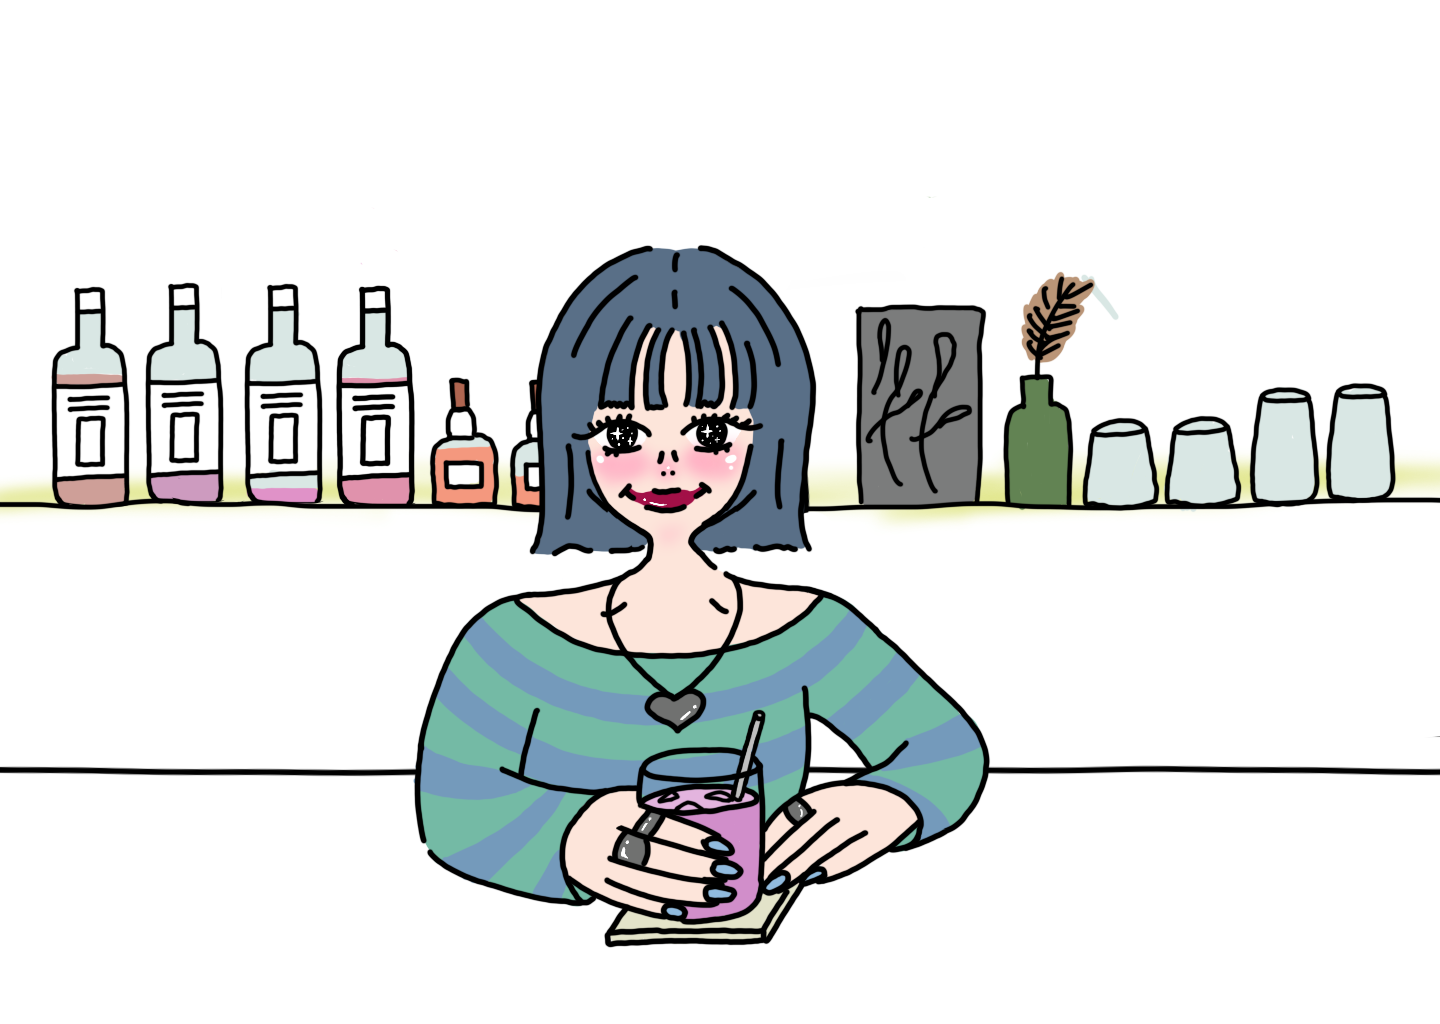
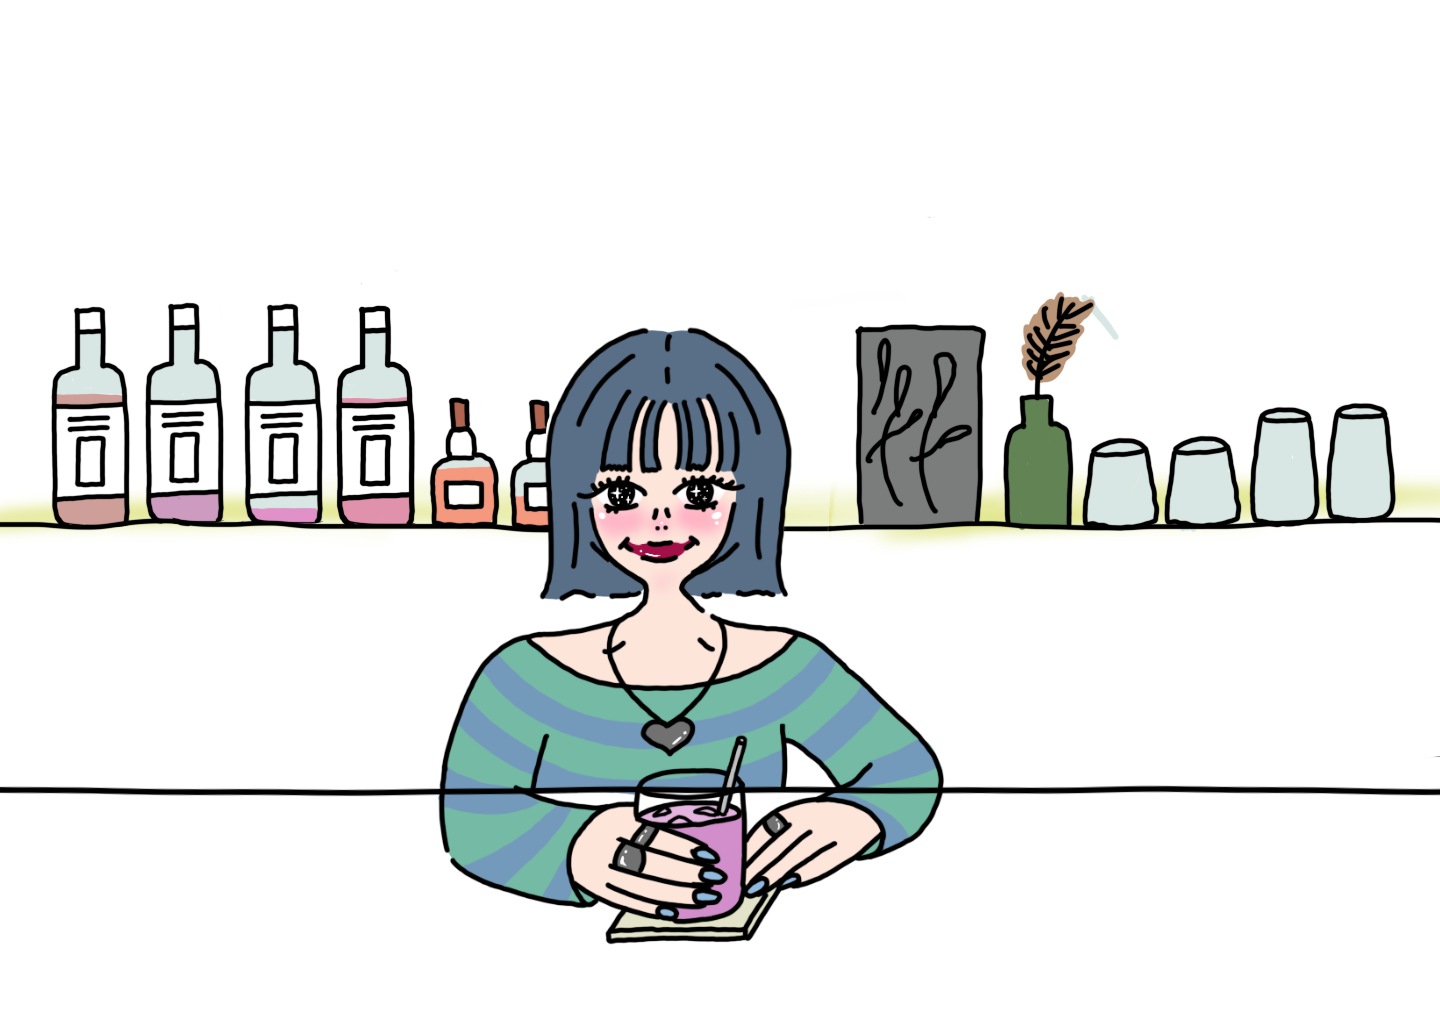
chapter

Changed region(s): [[0.0, 0.2188, 1.0, 0.9375]]

diff --git a/styles.css b/styles.css
@@ -763,7 +763,7 @@ body {
     width: 100vw;
     height: 500vh;
     /* スクロール遊び分 */
-    margin: 0;
+    margin-top: 30vh;
 }
 
 .interview-section {
